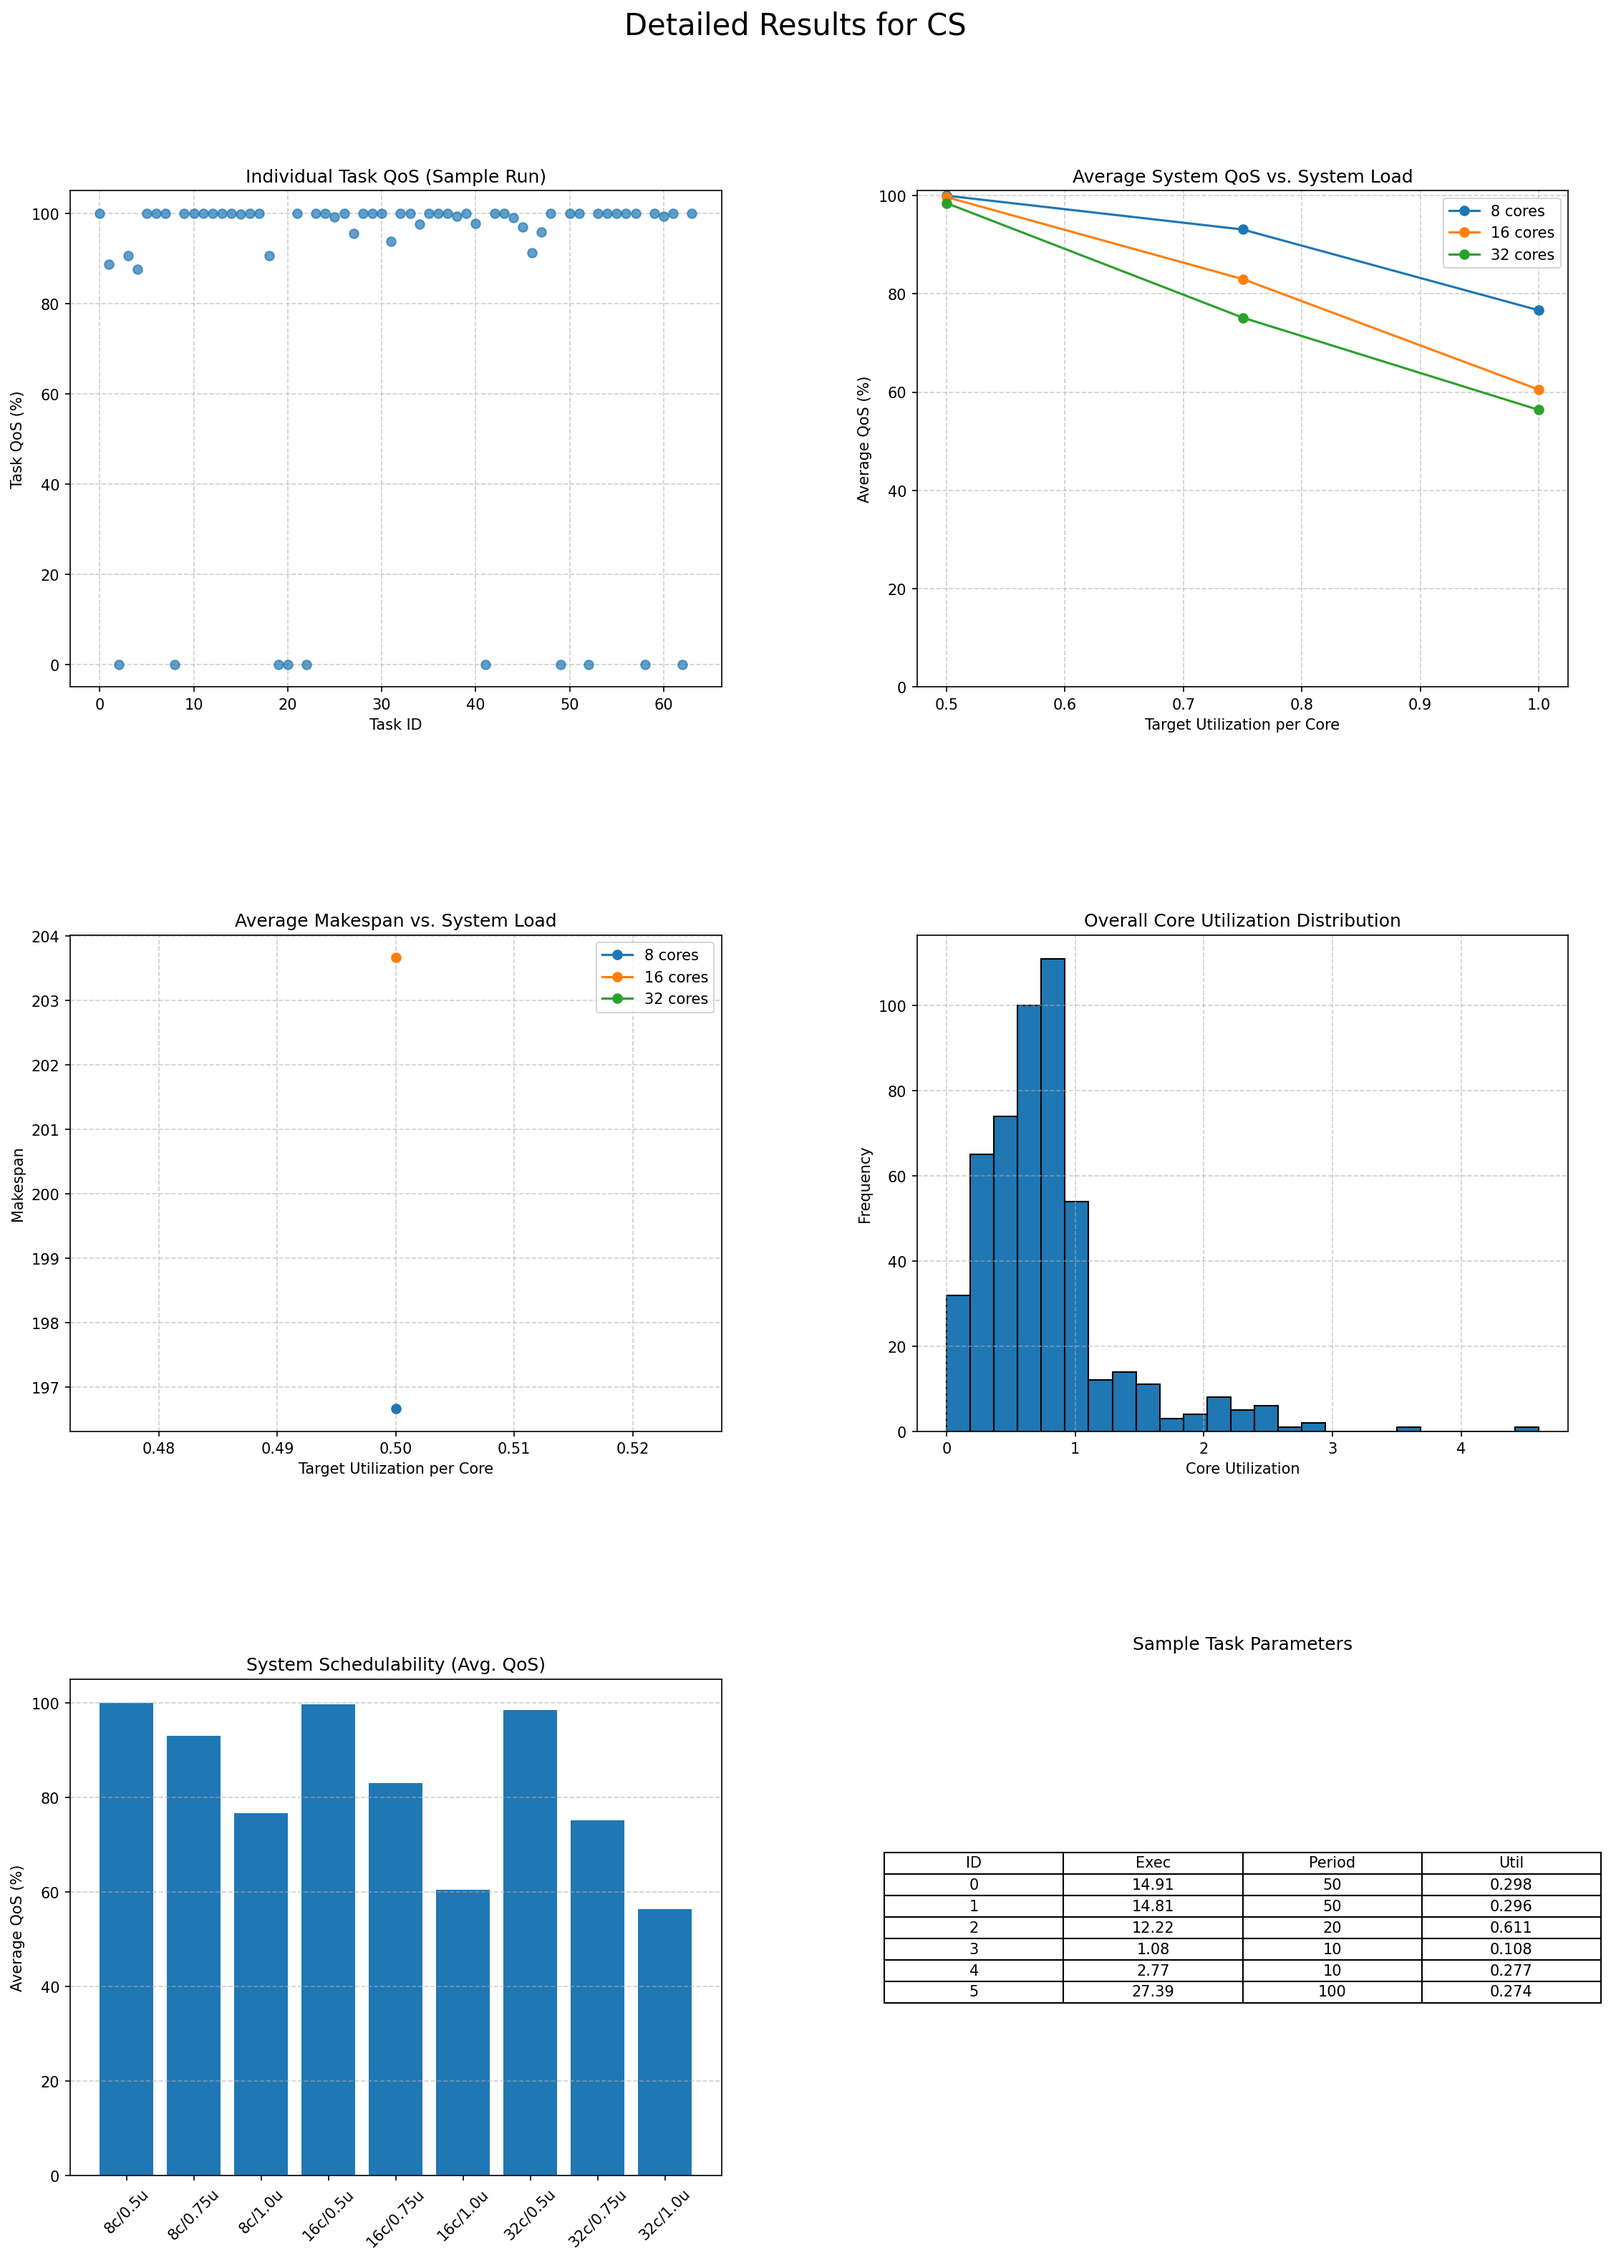
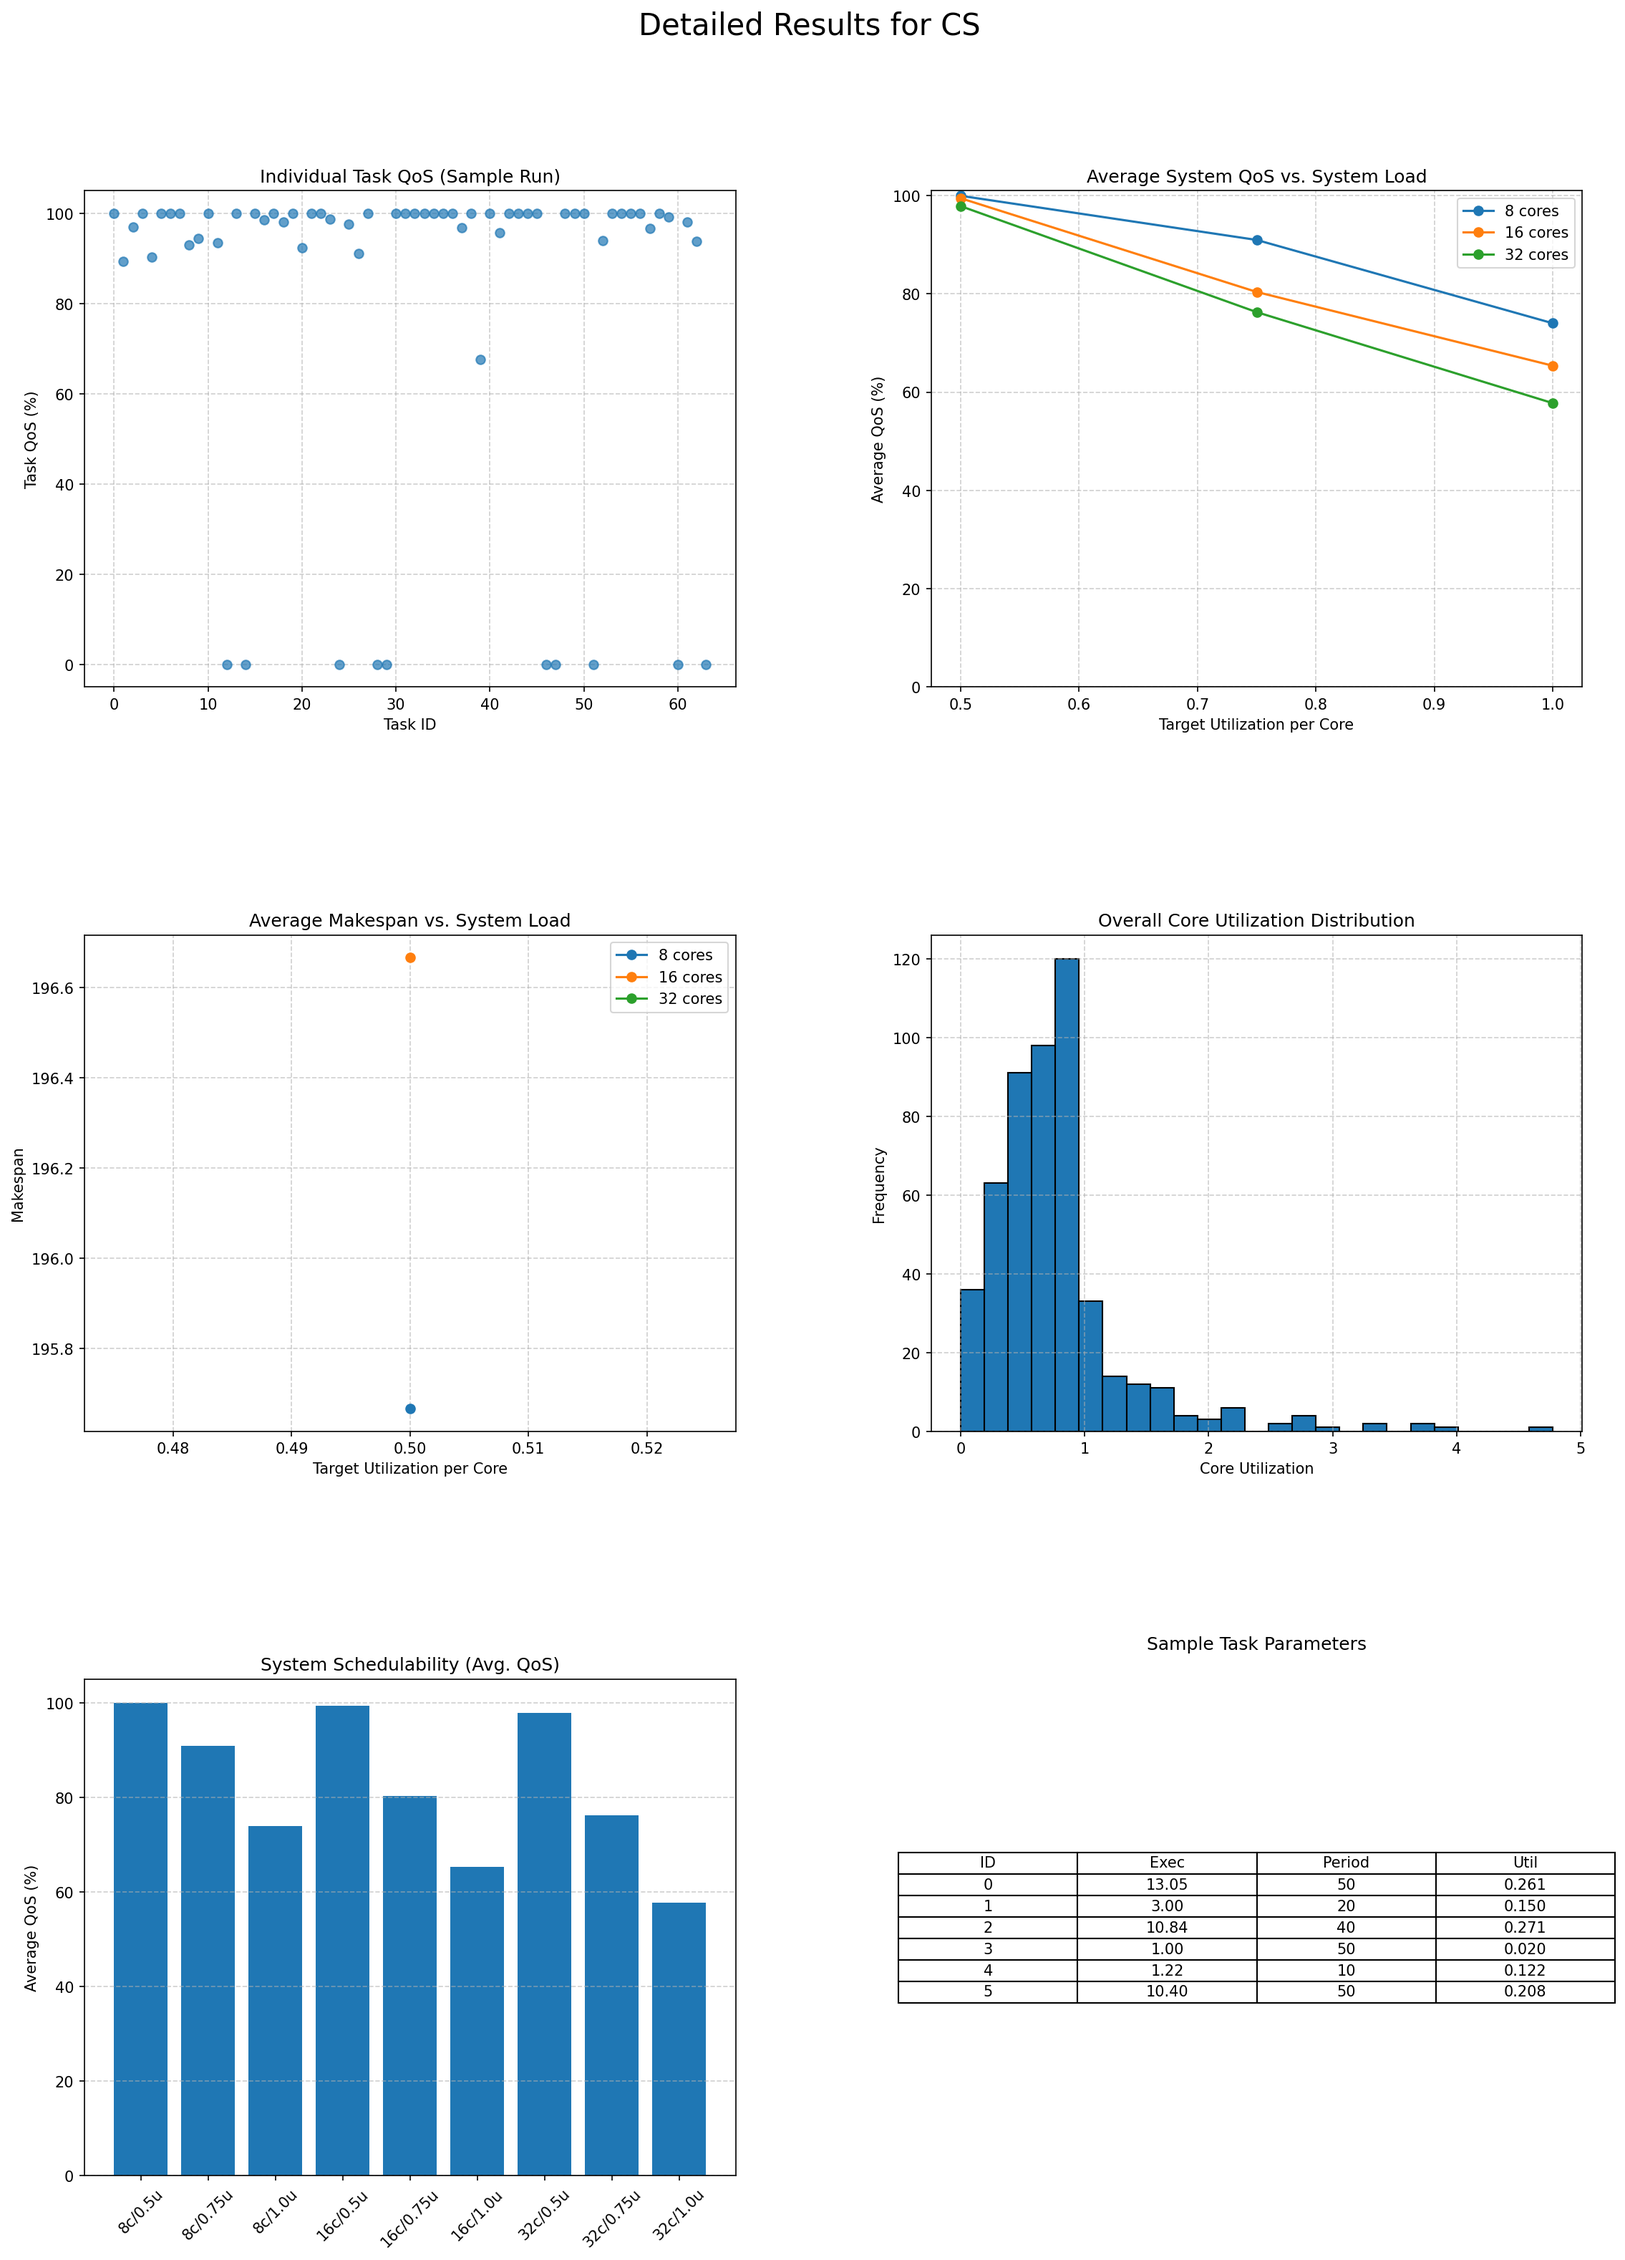
trying a different approach for cuckoo

diff --git a/main.py b/main.py
@@ -205,16 +205,27 @@ class CuckooScheduler:
         best_nest = nests[np.argmax(fitnesses)];
         best_fitness = np.max(fitnesses)
         for _ in range(self.generations):
-            step = self._levy_flight_step()
-            step_size = 0.01 * step * (best_nest - nests[random.randint(0, self.n_nests - 1)])
-            new_nest = nests[random.randint(0, self.n_nests - 1)].copy()
-            n_changes = min(int(np.linalg.norm(step_size)) + 1, self.n_tasks)
-            indices_to_change = random.sample(range(self.n_tasks), n_changes)
-            for idx in indices_to_change: new_nest[idx] = random.randint(0, self.num_cores - 1)
+            # --- STRATEGY 1: GENERATE NEW CUCKOO VIA GUIDED LEVY FLIGHT ---
+            levy_step = self._levy_flight_step()
+            # The step size influences the crossover probability
+            crossover_prob = 1 / (1 + 0.1 * abs(levy_step))  # Sigmoid-like mapping
+
+            random_nest = nests[random.randint(0, self.n_nests - 1)]
+            new_nest = best_nest.copy()
+
+            # Create a mask for crossover
+            mask = np.random.rand(self.n_tasks) > crossover_prob
+            new_nest[mask] = random_nest[mask]
+
             f_new = self._fitness(new_nest)
-            j = random.randint(0, self.n_nests - 1)
-            if f_new > fitnesses[j]: nests[j], fitnesses[j] = new_nest, f_new
-            if f_new > best_fitness: best_fitness, best_nest = f_new, new_nest
+            rand_idx = random.randint(0, self.n_nests - 1)
+            if f_new > fitnesses[rand_idx]:
+                nests[rand_idx], fitnesses[rand_idx] = new_nest, f_new
+
+            if f_new > best_fitness:
+                best_fitness, best_nest = f_new, new_nest
+
+            # --- STRATEGY 2: ABANDON WORST NESTS ---
             n_abandon = int(self.pa * self.n_nests)
             if n_abandon > 0:
                 sorted_indices = np.argsort(fitnesses)
@@ -229,7 +240,7 @@ class CuckooScheduler:
 # SECTION 3: SIMULATION AND VISUALIZATION
 # ==============================================================================
 
-def run_simulation(num_runs_per_config=3):
+def run_phase_two_simulation(num_runs_per_config=3):
     configurations = [(8, 0.5), (8, 0.75), (8, 1.0), (16, 0.5), (16, 0.75), (16, 1.0), (32, 0.5), (32, 0.75), (32, 1.0)]
     results = {}
     for cores, util_per_core in configurations:
@@ -362,18 +373,18 @@ if __name__ == "__main__":
     os.makedirs(RESULTS_DIR, exist_ok=True)
 
     start_time = a_time.time()
-    simulation_results = run_simulation(num_runs_per_config=3)
+    simulation_results = run_phase_two_simulation(num_runs_per_config=3)
 
     if simulation_results:
-        comparison_filename = os.path.join(RESULTS_DIR, 'phase_two_comparison.png')
+        comparison_filename = os.path.join(RESULTS_DIR, 'phase_two_comparison_enhanced.png')
         visualize_comparison_results(simulation_results, comparison_filename)
         print(f"Generated: {comparison_filename}")
 
-        ga_details_filename = os.path.join(RESULTS_DIR, 'phase_two_GA_details.png')
+        ga_details_filename = os.path.join(RESULTS_DIR, 'phase_two_GA_details_enhanced.png')
         visualize_detailed_results(simulation_results, 'GA', ga_details_filename)
         print(f"Generated: {ga_details_filename}")
 
-        cs_details_filename = os.path.join(RESULTS_DIR, 'phase_two_CS_details.png')
+        cs_details_filename = os.path.join(RESULTS_DIR, 'phase_two_CS_details_enhanced.png')
         visualize_detailed_results(simulation_results, 'CS', cs_details_filename)
         print(f"Generated: {cs_details_filename}")
     else:
